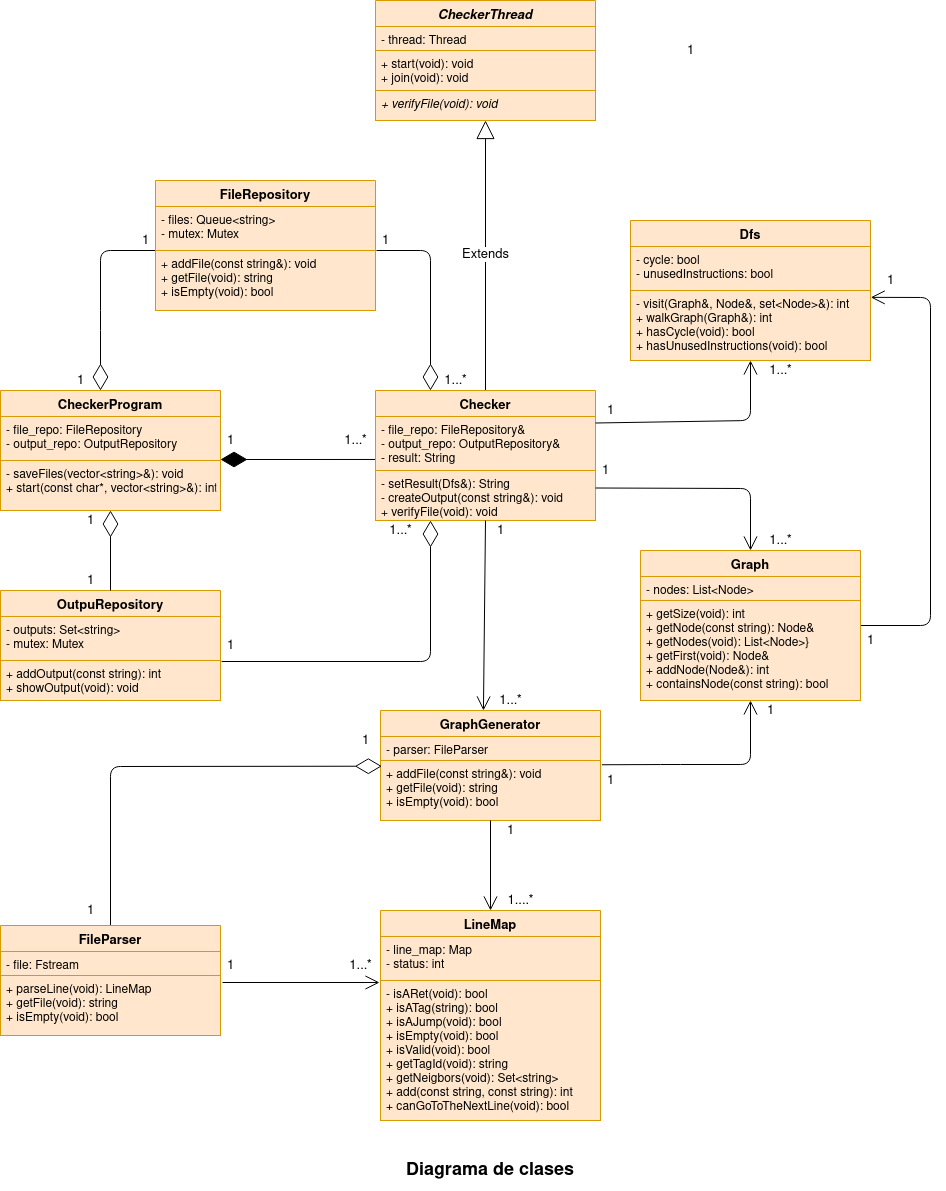
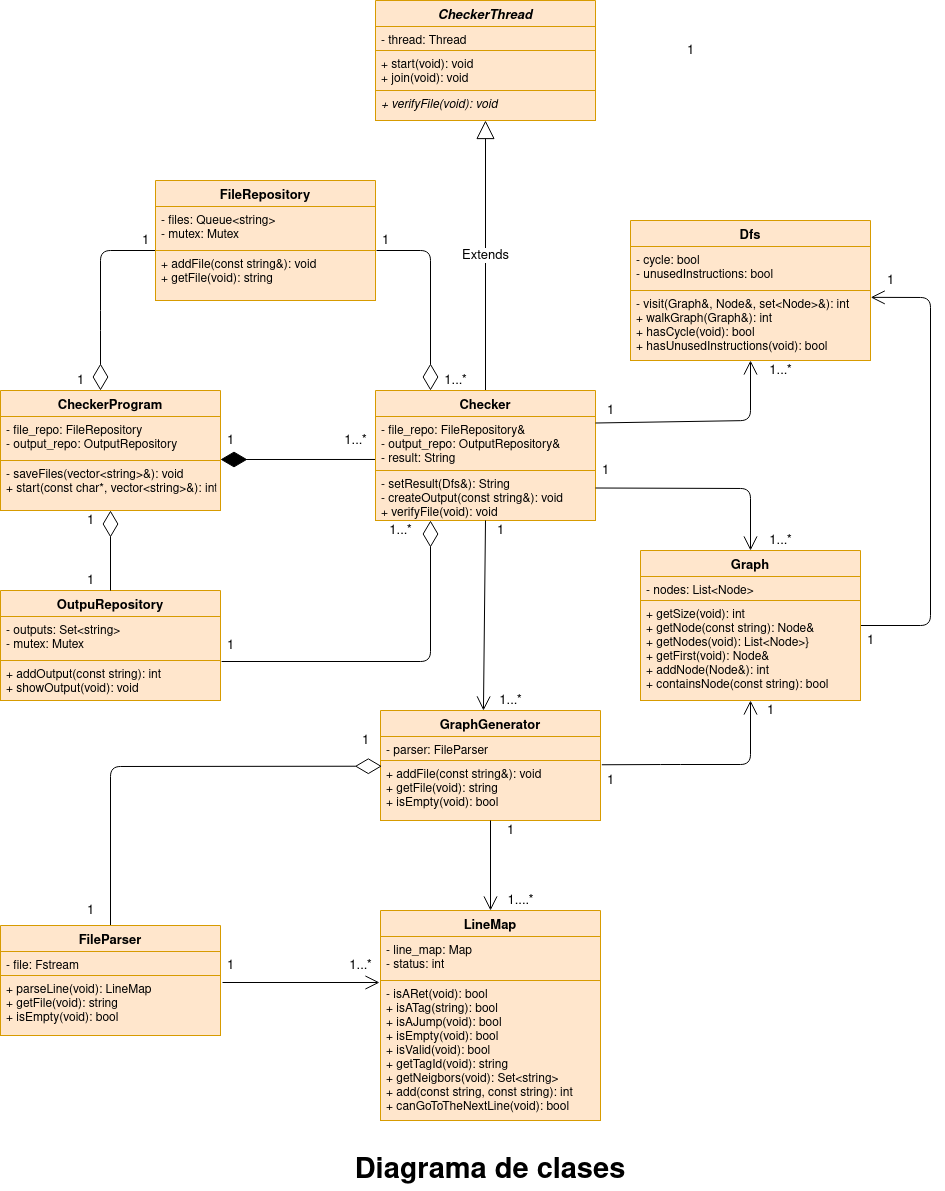
Continuo informe y un pequeño refactor

diff --git a/checker_program.cpp b/checker_program.cpp
@@ -17,9 +17,9 @@ static bool isAValidNumber(const std::string& number) {
 // al thread principal
 // Pre: recibe un vector con punteros a los checkers y la cantidad de checkers
 // Pos: los checkers han sido ejecutados
-static void runCheckers(std::vector<Checker*>& checkers, int threads_num) {
-    for (int i = 0; i < threads_num; i++) checkers[i]->start();
-    for (int i = 0; i < threads_num; i++) checkers[i]->join();
+static void runCheckers(std::vector<Checker*>& checkers) {
+    for (size_t i = 0; i < checkers.size(); i++) checkers[i]->start();
+    for (size_t i = 0; i < checkers.size(); i++) checkers[i]->join();
 }
 /**************** Métodos Privados de CheckerProgram *************************/
 
@@ -47,7 +47,7 @@ int CheckerProgram::start(const char *threads,
         checkers.reserve(threads_num);
         for (int i = 0; i < threads_num; i++) 
             checkers.push_back(new Checker(this->file_repo, this->output_repo));
-        runCheckers(checkers, threads_num);
+        runCheckers(checkers);
         this->output_repo.showOutput();
         for (int i = 0; i < threads_num; i++) delete checkers[i];
     }

diff --git a/file_repository.h b/file_repository.h
@@ -30,9 +30,6 @@ public:
     // Pos: si la cola no está vacía devuelve la ruta a un archivo,
     // sino devuelve una ruta vacía
     std::string getFile();
-    // Método para consultar si el FileRepository está vacío
-    // Pos: devuelve verdadero si la cola está vacía, sino devuelve false.
-    bool isEmpty();
     // Constructor por referencia
     FileRepository(const FileRepository&);
     // asignación por referencia

diff --git a/checker.cpp b/checker.cpp
@@ -31,8 +31,7 @@ Checker ::~Checker() {
 void Checker::verifyFile() {
     std::string output;
     std::string path;
-    while (!this->file_repo.isEmpty()) {
-        path = this->file_repo.getFile();
+    while (!(path = this->file_repo.getFile()).empty()) {
         Graph graph;
         GraphGenerator generator(path);
         Dfs dfs;

diff --git a/file_repository.cpp b/file_repository.cpp
@@ -23,11 +23,6 @@ std::string FileRepository::getFile() {
     return aux;
 }
 
-bool FileRepository::isEmpty() {
-    std::lock_guard<std::mutex> lock(this->mutex);
-    return (this->files.empty());
-}
-
 FileRepository::FileRepository(const FileRepository& other) {
     this->files = std::ref(other.files);
 }

diff --git a/README.md b/README.md
@@ -144,7 +144,7 @@ archivos, se ha debido detectar cuáles son las secciones críticas, es decir,
 cuales son las operaciones que no pueden ser interrumpidas por un context 
 switch, pudiendo provocar así alteraciones en los resultados. 
 En la clase *FileRepository*, se han detectado que la petición de rutas de 
-archivos y la consulta de si el repositorio está vacío son secciones críticas,
+archivos y la agregación de las mismas son secciones críticas, 
 pues si estas fuesen interrumpidas y se cambiara el estado del repositorio
 justo antes de obner la respuesta, esto podria generar un resultado 
 completamente inesperado, lo mismo sucede con la clase *OutputRepository*, 
@@ -166,23 +166,149 @@ el flujo del programa, de acuerdo a la resolución implementada.
 ![Flujo](https://github.com/EscobarMariaSol/TP2-Taller-de-Programacion/blob/main/img/TP2-Flujo.png)
 
 
-Por otro lado se presenta el siguiente diagrama de clases que intenta detallar,  
+Por otro lado se presenta el siguiente diagrama de clases que intenta detallar, 
 de la mejor manera posible, las clases implementadas para la resolución del 
-trabajo práctico y la relació existente entre ellas.
+trabajo práctico y la relación existente entre ellas.
 
 ![Clases](https://github.com/EscobarMariaSol/TP2-Taller-de-Programacion/blob/main/img/TP2-Clases.png)
 
 
 ## Clases implementadas
 
+A continuación se detallará un poco más acerca de las interfaces implementadas 
+para cada una de las clases creadas, explicacando brevemente el proqué de dicha 
+implementación.
+Enn caso de buscar una explicación más detallada, se puede consultar la 
+documentación existente en cada uno de los archivos de cabecera.
+
 ### CheckerProgram
+
+Esta clase es la encargada de llevar a cabo la ejecución del verificdor de 
+archivos, la cual nos permite proveer al main una completa abstracción de toda 
+lógica. La clase cuenta con los siguientes atributos:
+1. **file_repo**: que corresponde al objeto compartido, donde se almacenan las 
+rutas a los archivos a verificar.
+2. **output_repo**: corresponde al repositorio compartido, donde se almacenan
+las salidas registradas.
+
+La clase posee la siguiente interfaz:
+``` C++
+    class CheckerProgram {
+    private:
+        FileRepository file_repo;
+        OutputRepository output_repo;
+        void saveFiles(std::vector<std::string>& files);
+
+    public:
+        CheckerProgram();
+        ~CheckerProgram();
+        int start(const char *threads_num, std::vector<std::string>& files);
+    };
+``` 
+Vemos que cuenta con alguno de los siguientes métodos:
+1. **saveFiles**: es un método que se ha marcado como privado, pues sólo es 
+utilizado por la misma clase, la cual lo utiliza para guardar las rutas, a los 
+archivos a verificar, dentro del repositorio de archivos.
+2. **start**: es el método que se invoca desde el main para dar inicio a la 
+ejecución del programa.
 
 ### FileRepository
 
+Esta es una de las clases compartidas que se encarga de alamacenar las rutas 
+de los archivos a verificar. La clase cuenta con los siguientes atributos:
+1. **files**: es una cola en la que se guardan los archivos a verificar
+2. **mutex**: es el mutex que se utilizará para proteger los secciones que 
+realizan operaciones que no pueden ser interrrumpidas por un context switch. 
+
+La clase posee la siguiente interfaz:
+```C++
+    class FileRepository {
+    private:
+        std::queue<std::string> files;
+        std::mutex mutex;
+
+    public:
+        FileRepository();
+        ~FileRepository();
+        void addFile(const std::string& file_path);
+        std::string getFile();
+        FileRepository(const FileRepository&);
+        FileRepository& operator=(const FileRepository&); 
+    };
+```
+Se puede observar que cuenta con alguno de los siguientes métodos:
+1. **addFile**: este método se encarga de guardar una ruta a un archivo 
+dentro del atributo *files*, este es uno de los métodos protegidos por 
+un lock_guard del mutex.
+2. **getFile**: este método chequea si hay rutas disponibles en *files*, 
+si es así devuelve el próximo en la cola, este es otro de los métodos protegidos 
+por un lock_guard del mutex.
+
 ### OutputRepository
+
+Esta es la segunda clase compartida, es un repositorio encargado de almacenar 
+las salidas correspondientes al resultado de las verificaciones de los archivos. 
+La clase cuenta con los siguientes atributos:
+1. **outputs**: es donde se almacenan la salidas ordenadas alfabeticamente
+2. **mutex**: es el mutex que se utilizará para evitar que un thread pueda 
+interrumpir a otro, mediante un context switch, mientras interactua con las 
+secciones críticas del repositorio.
+
+La clase posee la siguiente interfaz:
+```C++
+    class OutputRepository {
+    private:
+        std::set<std::string> outputs;
+        std::mutex mutex;
+
+    public:
+        OutputRepository();
+        ~OutputRepository();
+        int addOutput(const std::string output);
+        void showOutput();
+        OutputRepository(const OutputRepository& other);
+        OutputRepository& operator=(const OutputRepository& other);
+    };
+```
+Como se puede observar cuenta con alguno de los siguientes métodos:
+1. **addOutput**: este método se encarga de guardar una nueva salida 
+al set de resultados *outputs* y es uno de los métodos protegidos por 
+un lock_guard del mutex.
+2. **showOutput**: este método es el encargado de mostrar por pantalla 
+todas las salidas almacenadas durante el proceso de verificación de los 
+archivos y es otro de los métodos protegidos por un lock_guard del mutex. 
 
 ### Checker
 
+Esta clase es la encargada de llevar a cabo al verificador de archivos,
+esto implica la creación del grafo y la verificación del mismo, para luego 
+almacenar los resultados dentro del repositorio de salidas.
+La misma hereda de la clase CheckerThread, pues cada instacia de la misma 
+corresponderá a un thread.
+La clase cuenta con los siguientes atributos:
+1. **result**: es un string correspondiente al resultado obtenido luego de 
+verificar un archivo
+2. **file_repo**: corresponde al repositorio al cual se le pediran las rutas
+de los archivos que deben ser verificados
+3. **utput_repo**: corresponde al repositorio en el cual se almacenaran
+los resultados obtenidos luego de verificar los archivos
+
+La clase posee la siguiente interfaz:
+```C++
+    class Checker: public CheckerThread {
+    private:
+        std::string result;
+        FileRepository& file_repo;
+        OutputRepository& output_repo;
+        void setResult(Dfs& dfs);
+        std::string createOutput(std::string& path);
+        
+    public:
+        Checker(FileRepository& file_repo, OutputRepository& output_repo);
+        ~Checker();
+        void verifyFile();
+    };
+``` 
 ### CheckerThread
 
 ### GraphGenerator
